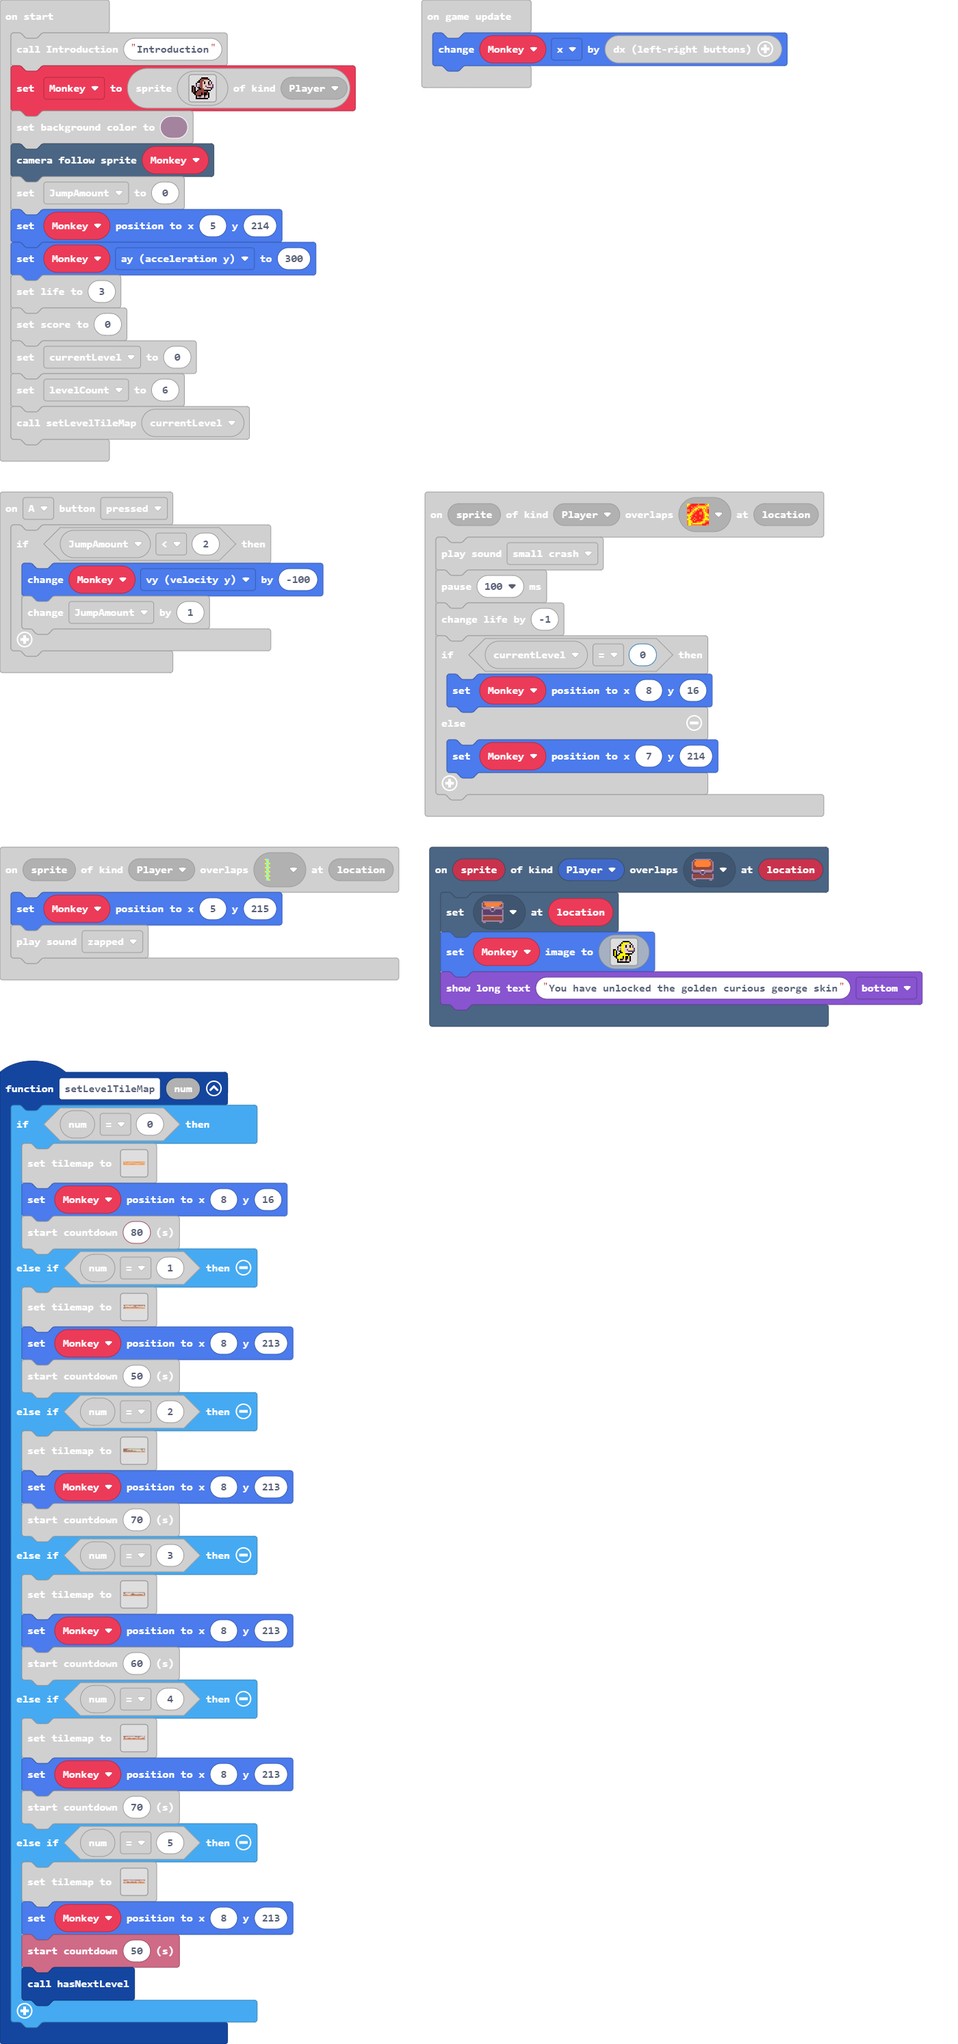
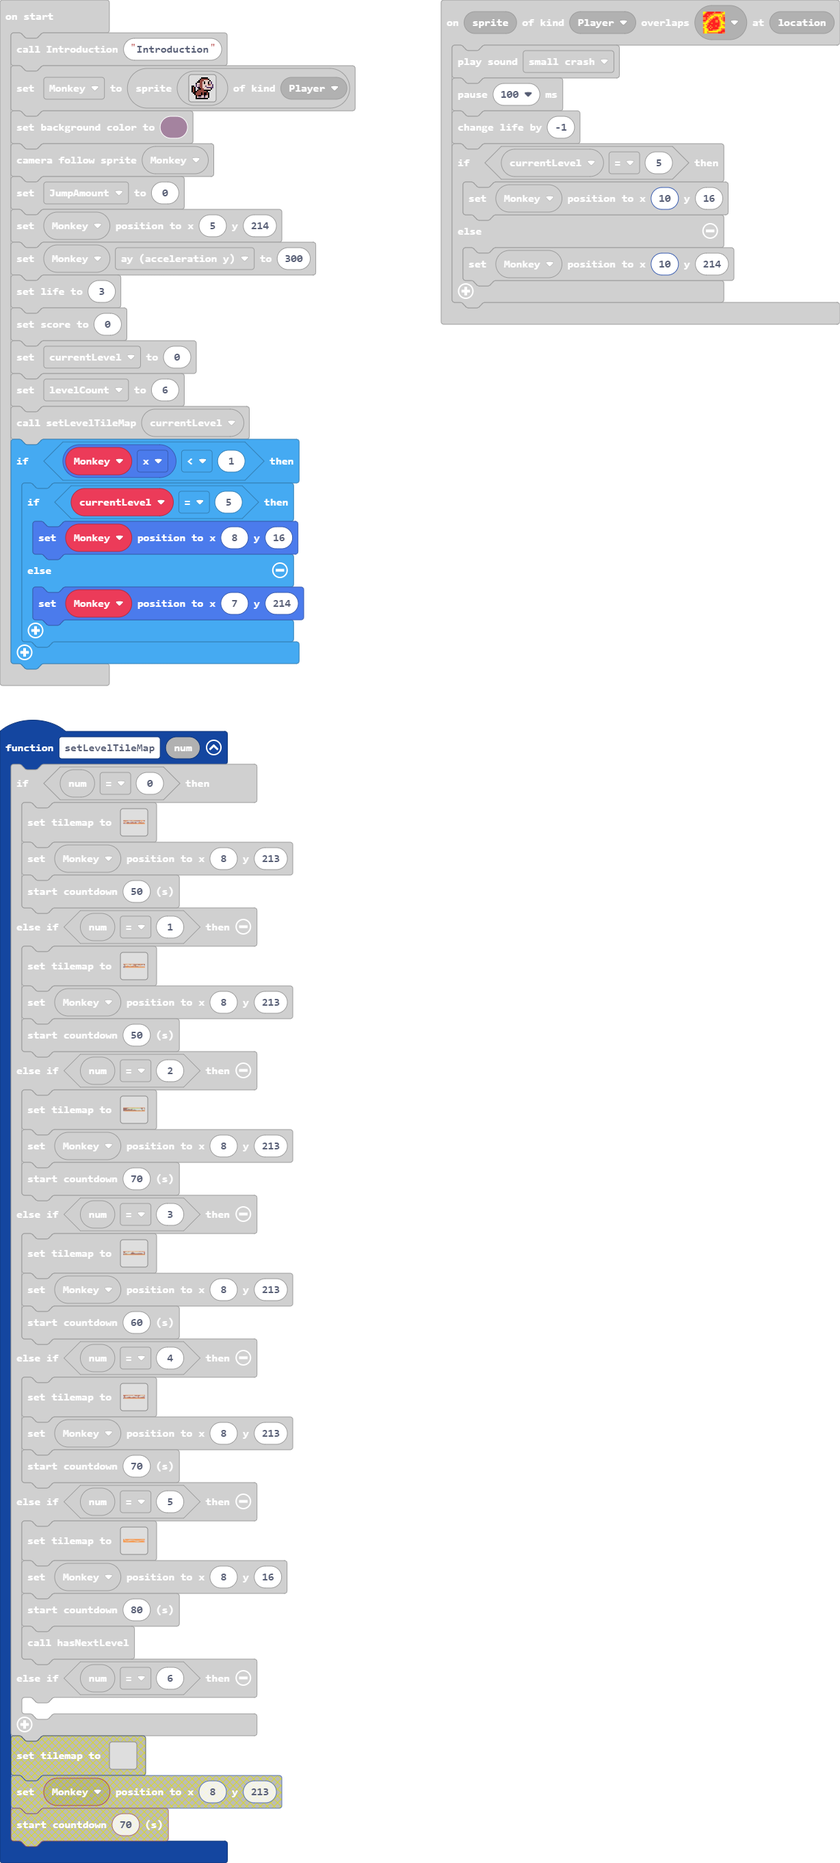
Update main.blocks, main.ts, tilemap.g.jres, tilemap.g.ts

diff --git a/tilemap.g.ts b/tilemap.g.ts
@@ -40,6 +40,8 @@ namespace myTiles {
     export const tile18 = image.ofBuffer(hex``);
     //% fixedInstance jres blockIdentity=images._tile
     export const tile19 = image.ofBuffer(hex``);
+    //% fixedInstance jres blockIdentity=images._tile
+    export const tile20 = image.ofBuffer(hex``);
 
     helpers._registerFactory("tilemap", function(name: string) {
         switch(helpers.stringTrim(name)) {
@@ -233,44 +235,6 @@ namespace myTiles {
 . . . . . . . . . . . . . . . . 
 . . . . . . . . . . . . . . . . 
 `, [myTiles.transparency16], TileScale.Sixteen);
-            case "level3":
[1 lines of base64/hex data omitted]
-.................................................................................2..................
-.................................................................................2..................
-.................................................................................2..................
-.........................2.2..2222222222222222222222222222222222222222222222222222..................
-.......................2............................................................................
-.....................2..............................................................................
-...................2........................................................................2.......
-...................................................22...............................................
-.................2.............................22.....22...................................2........
-...............2....................................................................................
-.............2.....2........................22............22..............................2.........
-...........2.........22..................22...................22....................................
-.........2...............22..........22..........................22..22...22...22..222...2.....22222
-.......2.....................22..22............................................................22222
-222222..............................................................................................
-2222222222222222222222222222222222222222222222222222222222222222222222222222222222222222222222222222
-`, [myTiles.transparency16,myTiles.tile1,myTiles.tile3,myTiles.tile12,myTiles.tile9,myTiles.tile7,sprites.dungeon.darkGroundNorthWest1,sprites.dungeon.floorLight0,sprites.dungeon.hazardLava0,sprites.dungeon.collectibleInsignia,myTiles.tile2,myTiles.tile15], TileScale.Sixteen);
-            case "level7":
[1 lines of base64/hex data omitted]
-....................................................................................................
-....................................................................................................
-.............................................................................................2222222
-......................222.2...2...2...2...2...2...2...2...2...2...2...2...2...2...2...2...2..2222222
-....................2...............................................................................
-..................2.................................................................................
-...............2....................................................................................
-.............2......................................................................................
-....................................................................................................
-...........2........................................................................................
-.........2..........................................................................................
-.......2.................................................................2.....2....2...............
-......2...22..........22..22.....22......222.....22...222...222.......2.....2....2...2..............
-....22.......222...22........22......22.......2222...............222...................2..2.........
-222.................................................................................................
-222.................................................................................................
-`, [myTiles.transparency16,myTiles.tile10,myTiles.tile1,myTiles.tile3,myTiles.tile12,myTiles.tile9,myTiles.tile7,sprites.dungeon.darkGroundNorthWest1,sprites.dungeon.hazardLava0,sprites.dungeon.greenOuterNorth0,sprites.builtin.forestTiles0,myTiles.tile13], TileScale.Sixteen);
             case "level17":
             case "level17":return tiles.createTilemap(hex`1000100000000000000000000000000000000000000000000000000000000000000000000000000000000000000000000000000000000000000000000000000000000000000000000000000000000000000000000000000000000000000000000000000000000000000000000000000000000000000000000000000000000000000000000000000000000000000000000000000000000000000000000000000000000000000000000000000000000000000000000000000000000000000000000000000000000000000000000000000000000000000000000000000000000000000000000000000000000000000000000000000000000000000000000000000000000000`, img`
 . . . . . . . . . . . . . . . . 
@@ -385,44 +349,6 @@ namespace myTiles {
 . . . . . . . . . . . . . . . . 
 . . . . . . . . . . . . . . . . 
 `, [myTiles.transparency16], TileScale.Sixteen);
-            case "level2":
[1 lines of base64/hex data omitted]
-....................................................................................................
-....................................................................................................
-.......................................................22...........................................
-.......................22.............................22....222.....................................
-......................22..........222....222....222.................................................
-....................................................................................................
-................222............................................222..................................
-..............2...............222...................................................................
-......................................222..........2.......222...2222...............................
-...........22.....................................22................................................
-....................2......22....................222..2222..........222.............................
-.........2.....................................2222222..................222.........................
-........22.................................................................2.2222.2222.2222.22222222
-.......222.............222..........................................................................
-2222222222222222222222222222222222222222222222222222222222222222222222222222222222222222222222222222
-2222222222222222222222222222222222222222222222222222222222222222222222222222222222222222222222222222
-`, [myTiles.transparency16,myTiles.tile1,myTiles.tile3,myTiles.tile7,sprites.dungeon.darkGroundNorthWest1,sprites.dungeon.floorLight0,sprites.dungeon.hazardLava0,myTiles.tile12,myTiles.tile9,myTiles.tile2,sprites.builtin.forestTiles0,myTiles.tile18], TileScale.Sixteen);
-            case "level9":
[1 lines of base64/hex data omitted]
-....................................................................................................
-....................................................................................................
-...................................2.............2.......2..2.....2...2...2...........2.2...........
-......................2...2...2..........2............2........2.............2....2.2...............
-........................2............2.......2......................................................
-...................22...........................................................2...................
-.................2.......................................................2.................222222222
-..............2..............................................................2...........2.222222222
-................................2..........2.......2...........2....................2...2..222222222
-......................2....2.........................2..2.2.2..........2.........2..................
-.........2.......2.2...................2.........2...............2.........2..2.....................
-.......2...2.22..........2....2....2........2.......................2....2............2.............
-......2..............2..............................................................................
-....2...............................................................................................
-2222................................................................................................
-2222................................................................................................
-`, [myTiles.transparency16,myTiles.tile1,myTiles.tile3,myTiles.tile12,myTiles.tile9,myTiles.tile7,myTiles.tile5,myTiles.tile11,sprites.dungeon.darkGroundNorthWest1,sprites.dungeon.hazardLava0,sprites.dungeon.floorDarkDiamond,sprites.dungeon.doorLockedNorth,sprites.builtin.forestTiles0,myTiles.tile14,myTiles.tile8,myTiles.tile10], TileScale.Sixteen);
             case "level16":
[1 lines of base64/hex data omitted]
 ....................................................................................................
@@ -442,8 +368,27 @@ namespace myTiles {
 ....................................................................................................
 ....................................................................................................
 `, [myTiles.transparency16,sprites.dungeon.darkGroundNorthWest1,sprites.dungeon.hazardLava0,myTiles.tile1,myTiles.tile3,myTiles.tile12,myTiles.tile9,myTiles.tile7,myTiles.tile16,myTiles.tile17,sprites.dungeon.chestClosed], TileScale.Sixteen);
+            case "level23":
+            case "level23":return tiles.createTilemap(hex`1000100000000000000000000000000000000000000000000000000000000000000000000000000000000000000000000000000000000000000000000000000000000000000000000000000000000000000000000000000000000000000000000000000000000000000000000000000000000000000000000000000000000000000000000000000000000000000000000000000000000000000000000000000000000000000000000000000000000000000000000000000000000000000000000000000000000000000000000000000000000000000000000000000000000000000000000000000000000000000000000000000000000000000000000000000000000000`, img`
+. . . . . . . . . . . . . . . . 
+. . . . . . . . . . . . . . . . 
+. . . . . . . . . . . . . . . . 
+. . . . . . . . . . . . . . . . 
+. . . . . . . . . . . . . . . . 
+. . . . . . . . . . . . . . . . 
+. . . . . . . . . . . . . . . . 
+. . . . . . . . . . . . . . . . 
+. . . . . . . . . . . . . . . . 
+. . . . . . . . . . . . . . . . 
+. . . . . . . . . . . . . . . . 
+. . . . . . . . . . . . . . . . 
+. . . . . . . . . . . . . . . . 
+. . . . . . . . . . . . . . . . 
+. . . . . . . . . . . . . . . . 
+. . . . . . . . . . . . . . . . 
+`, [myTiles.transparency16], TileScale.Sixteen);
             case "level1":
[2 lines of base64/hex data omitted]
 ....................................................................................................
 ....................................................................................................
 ....................................................................................................
@@ -461,8 +406,84 @@ namespace myTiles {
 2222222222222222....................................................................................
 2222222222222222222222222222222222222222222222222222222222222222222222222222222222222222222222222222
 `, [myTiles.transparency16,sprites.dungeon.floorLightMoss,sprites.dungeon.stairLarge,sprites.dungeon.stairWest,sprites.dungeon.darkGroundNorthWest1,sprites.dungeon.hazardLava0,sprites.dungeon.purpleOuterNorth0,myTiles.tile6,myTiles.tile1,myTiles.tile3,myTiles.tile9,myTiles.tile12,myTiles.tile7,sprites.builtin.forestTiles0,myTiles.tile4,myTiles.tile18], TileScale.Sixteen);
-            case "level23":
-            case "level23":return tiles.createTilemap(hex`1000100000000000000000000000000000000000000000000000000000000000000000000000000000000000000000000000000000000000000000000000000000000000000000000000000000000000000000000000000000000000000000000000000000000000000000000000000000000000000000000000000000000000000000000000000000000000000000000000000000000000000000000000000000000000000000000000000000000000000000000000000000000000000000000000000000000000000000000000000000000000000000000000000000000000000000000000000000000000000000000000000000000000000000000000000000000000`, img`
+            case "level2":
[1 lines of base64/hex data omitted]
+....................................................................................................
+....................................................................................................
+.......................................................22...........................................
+.......................22.............................22....222.....................................
+......................22..........222....222....222.................................................
+....................................................................................................
+................222............................................222..................................
+..............2...............222...................................................................
+......................................222..........2.......222...2222...............................
+...........22.....................................22................................................
+....................2......22....................222..2222..........222.............................
+.........2.....................................2222222..................222.........................
+........22.................................................................2.2222.2222.2222.22222222
+.......222.............222..........................................................................
+2222222222222222222222222222222222222222222222222222222222222222222222222222222222222222222222222222
+2222222222222222222222222222222222222222222222222222222222222222222222222222222222222222222222222222
+`, [myTiles.transparency16,myTiles.tile1,myTiles.tile3,myTiles.tile7,sprites.dungeon.darkGroundNorthWest1,sprites.dungeon.floorLight0,sprites.dungeon.hazardLava0,myTiles.tile12,myTiles.tile9,myTiles.tile2,sprites.builtin.forestTiles0,myTiles.tile18], TileScale.Sixteen);
+            case "level3":
[1 lines of base64/hex data omitted]
+.................................................................................2..................
+.................................................................................2..................
+.................................................................................2..................
+.........................2.2..2222222222222222222222222222222222222222222222222222..................
+.......................2............................................................................
+.....................2..............................................................................
+...................2........................................................................2.......
+...................................................22...............................................
+.................2.............................22.....22...................................2........
+...............2....................................................................................
+.............2.....2........................22............22..............................2.........
+...........2.........22..................22...................22....................................
+.........2...............22..........22..........................22..22...22...22..222...2.....22222
+.......2.....................22..22............................................................22222
+222222..............................................................................................
+2222222222222222222222222222222222222222222222222222222222222222222222222222222222222222222222222222
+`, [myTiles.transparency16,myTiles.tile1,myTiles.tile3,myTiles.tile12,myTiles.tile9,myTiles.tile7,sprites.dungeon.darkGroundNorthWest1,sprites.dungeon.floorLight0,sprites.dungeon.hazardLava0,sprites.dungeon.collectibleInsignia,myTiles.tile2], TileScale.Sixteen);
+            case "level7":
[1 lines of base64/hex data omitted]
+....................................................................................................
+....................................................................................................
+....................................................................................................
+.............................................................................................2222222
+....................2.222.2...2...2...2...2...2...2...2...2...2...2...2...2...2...2...2...2..2222222
+..................2.................................................................................
+...............2....................................................................................
+.............2......................................................................................
+....................................................................................................
+...........2........................................................................................
+.........2..........................................................................................
+.......2.................................................................2.....2....2...............
+......2...22..........22..22.....22......222.....22...222...222.......2.....2....2...2..............
+....22.......222...22........22......22.......2222...............222...................2..2.........
+222.................................................................................................
+222.................................................................................................
+`, [myTiles.transparency16,myTiles.tile10,myTiles.tile1,myTiles.tile3,myTiles.tile12,myTiles.tile9,myTiles.tile7,sprites.dungeon.darkGroundNorthWest1,sprites.dungeon.hazardLava0,sprites.dungeon.greenOuterNorth0,sprites.builtin.forestTiles0,myTiles.tile13], TileScale.Sixteen);
+            case "level9":
[1 lines of base64/hex data omitted]
+....................................................................................................
+....................................................................................................
+.........................................................2..2.....2...2...2.........................
+......................2...2...2....2.....2.......2....2........2.............2....2.2.2.2...........
+........................2............2.......2......................................................
+...................22...........................................................2...................
+.................2.......................................................2.................222222222
+..............2..............................................................2...........2.222222222
+................................2..........2.......2...........2....................2...2..222222222
+......................2....2.........................2..2.2.2..........2.........2..................
+.........2.......2.2...................2.........2...............2.........2..2.....................
+.......2...2.22..........2....2....2........2.......................2....2............2.............
+......2..............2..............................................................................
+....2...............................................................................................
+2222................................................................................................
+2222................................................................................................
+`, [myTiles.transparency16,myTiles.tile1,myTiles.tile3,myTiles.tile12,myTiles.tile9,myTiles.tile7,myTiles.tile5,myTiles.tile11,sprites.dungeon.darkGroundNorthWest1,sprites.dungeon.hazardLava0,sprites.dungeon.floorDarkDiamond,sprites.dungeon.doorLockedNorth,sprites.builtin.forestTiles0,myTiles.tile14,myTiles.tile8,myTiles.tile10], TileScale.Sixteen);
+            case "level24":
+            case "level24":return tiles.createTilemap(hex`1000100000000000000000000000000000000000000000000000000000000000000000000000000000000000000000000000000000000000000000000000000000000000000000000000000000000000000000000000000000000000000000000000000000000000000000000000000000000000000000000000000000000000000000000000000000000000000000000000000000000000000000000000000000000000000000000000000000000000000000000000000000000000000000000000000000000000000000000000000000000000000000000000000000000000000000000000000000000000000000000000000000000000000000000000000000000000`, img`
 . . . . . . . . . . . . . . . . 
 . . . . . . . . . . . . . . . . 
 . . . . . . . . . . . . . . . . 
@@ -525,6 +546,8 @@ namespace myTiles {
             case "tile18":return tile18;
             case "myTile15":
             case "tile19":return tile19;
+            case "myTile16":
+            case "tile20":return tile20;
         }
         return null;
     })

diff --git a/main.ts b/main.ts
@@ -15,17 +15,17 @@ scene.onHitWall(SpriteKind.Player, function (sprite, location) {
 })
 function setLevelTileMap (num: number) {
     if (num == 0) {
-        tiles.setTilemap(tilemap`level3`)
+        tiles.setTilemap(tilemap`level1`)
         Monkey.setPosition(8, 213)
-        info.startCountdown(70)
+        info.startCountdown(50)
     } else if (num == 1) {
         tiles.setTilemap(tilemap`level2`)
         Monkey.setPosition(8, 213)
         info.startCountdown(50)
     } else if (num == 2) {
-        tiles.setTilemap(tilemap`level1`)
+        tiles.setTilemap(tilemap`level3`)
         Monkey.setPosition(8, 213)
-        info.startCountdown(50)
+        info.startCountdown(70)
     } else if (num == 3) {
         tiles.setTilemap(tilemap`level7`)
         Monkey.setPosition(8, 213)
@@ -40,9 +40,7 @@ function setLevelTileMap (num: number) {
         info.startCountdown(80)
         hasNextLevel()
     } else if (num == 6) {
-        tiles.setTilemap(tilemap`level23`)
-        Monkey.setPosition(8, 213)
-        info.startCountdown(70)
+    	
     }
 }
 controller.A.onEvent(ControllerButtonEvent.Pressed, function () {
@@ -56,9 +54,9 @@ scene.onOverlapTile(SpriteKind.Player, sprites.dungeon.hazardLava0, function (sp
     pause(100)
     info.changeLifeBy(-1)
     if (currentLevel == 5) {
-        Monkey.setPosition(8, 16)
+        Monkey.setPosition(10, 16)
     } else {
-        Monkey.setPosition(7, 214)
+        Monkey.setPosition(10, 214)
     }
 })
 scene.onOverlapTile(SpriteKind.Player, assets.tile`myTile12`, function (sprite, location) {
@@ -128,6 +126,13 @@ info.setScore(0)
 currentLevel = 0
 levelCount = 6
 setLevelTileMap(currentLevel)
+if (Monkey.x < 1) {
+    if (currentLevel == 5) {
+        Monkey.setPosition(8, 16)
+    } else {
+        Monkey.setPosition(7, 214)
+    }
+}
 game.onUpdate(function () {
     Monkey.x += controller.dx()
 })
